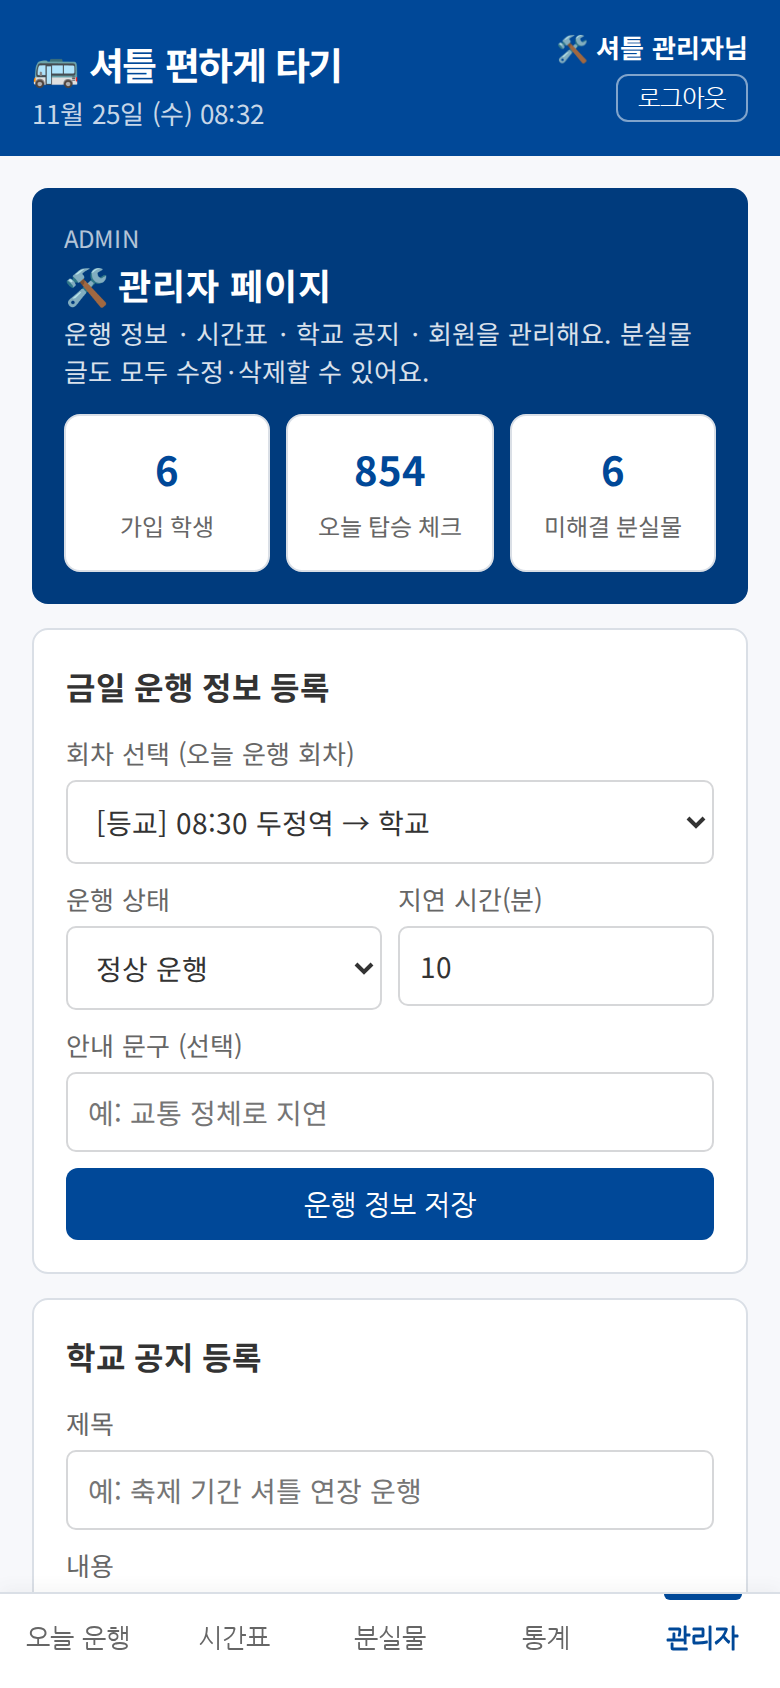
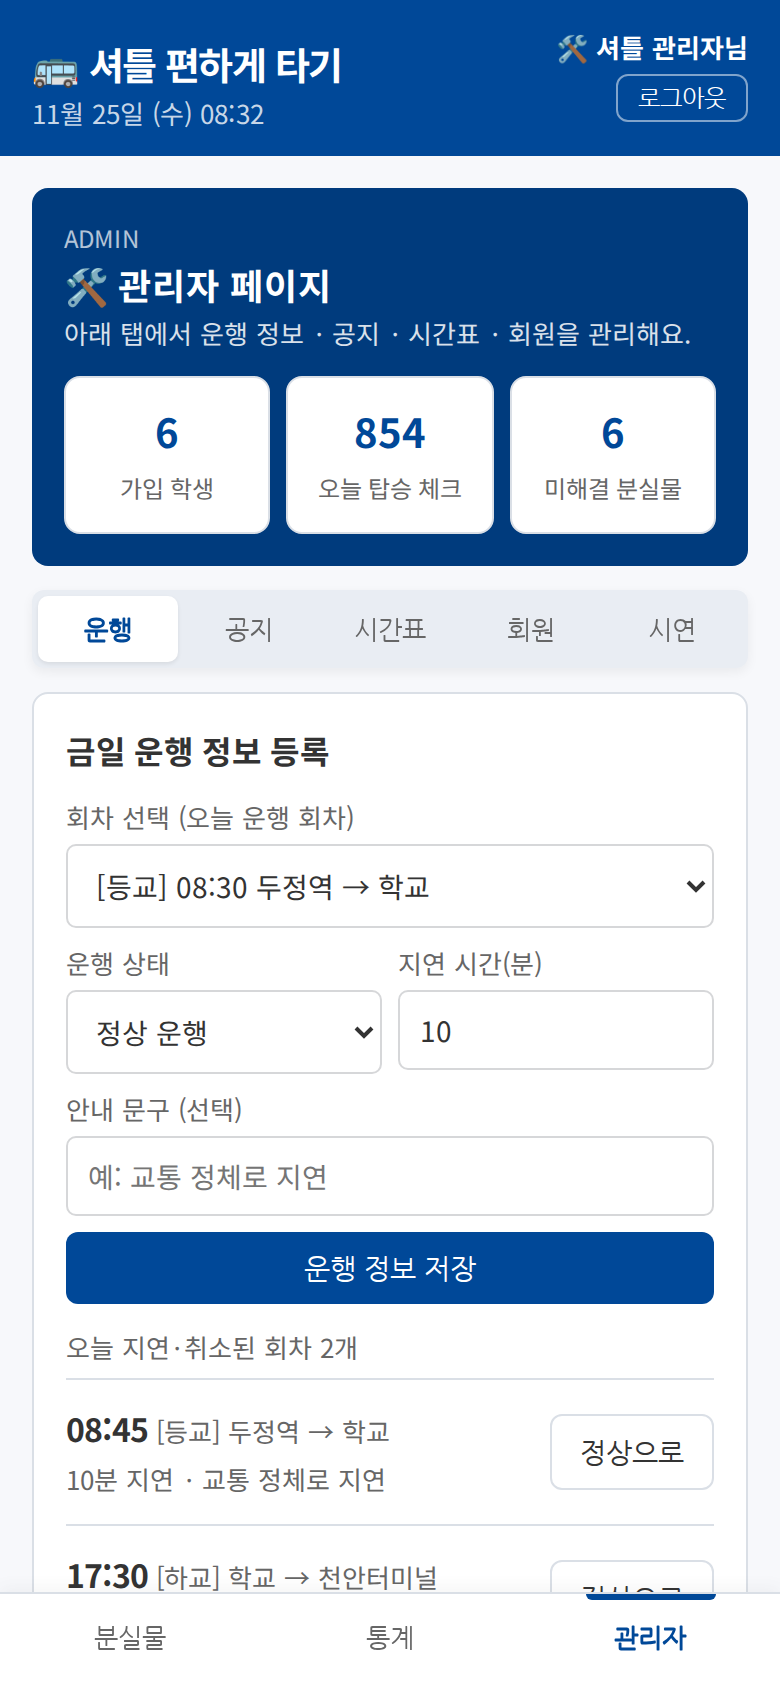
관리자 페이지를 탭으로 나누고 관리자 하단 메뉴에서 오늘 운행·시간표 제외
- 관리자 페이지: 운행/공지/시간표/회원/시연 탭
- 운행 탭에 오늘 지연·취소 회차 목록과 '정상으로' 버튼 추가
- 등록된 시간표 회차 목록은 접어 두고 등교/하교로 나눠 보기
- 관리자 로그인 시 관리자 탭으로 바로 이동

diff --git a/js/app.js b/js/app.js
@@ -354,6 +354,7 @@ function render() {
   renderHome(); renderWeek(); renderNotices();
   if (!$('lostList').contains(document.activeElement)) renderLost();   // 댓글 입력 중엔 다시 그리지 않음
   if (u.role === 'admin') { renderStats(); renderAdmin(); renderUsers(); }
+  fixTab();
 }
 
 function statusText(i) {
@@ -788,13 +789,21 @@ function renderAdmin() {
     return `<option value="${r.id}">[${r.dir}] ${r.time} ${r.route}${tag}</option>`;
   }).join('') : '<option value="">오늘 운행 회차 없음</option>';
   if (cur && runs.some(r => String(r.id) === cur)) $('stRun').value = cur;
+  const changed = runs.filter(r => day().status[r.id]);
+  $('stList').innerHTML = `<div class="muted" style="margin-bottom:6px">오늘 지연·취소된 회차 ${changed.length}개</div>` + changed.map(r => {
+    const st = day().status[r.id];
+    return `<div class="row between run"><div><b>${r.time}</b> <span class="muted">[${r.dir}] ${r.route}<br>${st.state === 'cancel' ? '운행 취소' : st.delay + '분 지연'}${st.note ? ' · ' + esc(st.note) : ''}</span></div>
+      <button class="btn ghost" data-streset="${r.id}">정상으로</button></div>`;
+  }).join('');
 
   $('routeList').innerHTML = [...new Set(S.schedule.map(r => r.route))].map(r => `<option value="${r}">`).join('');
   $('stopList').innerHTML = [...new Set(S.schedule.map(r => r.stop))].map(r => `<option value="${esc(r)}">`).join('');
   if (!$('addDays').children.length)
     $('addDays').innerHTML = DAYS.map((d, k) => `<div class="${k >= 5 ? 'wk' : ''}"><span>${d}</span><input type="number" min="0" max="9" value="${k < 5 ? 1 : 0}" data-day="${k}" /></div>`).join('');
 
-  $('schedList').innerHTML = sorted(S.schedule).map(r => `
+  $('schedCount').textContent = `(${S.schedule.length}개)`;
+  document.querySelectorAll('#schedSeg button').forEach(x => x.classList.toggle('on', x.dataset.sdir === schedDir));
+  $('schedList').innerHTML = sorted(S.schedule.filter(r => r.dir === schedDir)).map(r => `
     <div class="row between run">
       <div><b>${r.time}</b> <span class="muted">[${r.dir}] ${r.route}<br>${r.buses.map((b, k) => b ? DAYS[k] + b : '').filter(Boolean).join(' ') || '운행 없음'}${r.buses[5] || r.buses[6] ? ' <span class="badge b-wk">주말</span>' : ''}</span></div>
       <button class="btn ghost" data-del="${r.id}">삭제</button>
@@ -803,15 +812,36 @@ function renderAdmin() {
   $('demoDay').value = S.demoDay || '';
 }
 
+// ---------- 탭 이동 ----------
+// 관리자는 오늘 운행·시간표 탭 대신 분실물·통계·관리자 탭만 사용
+const STUDENT_TABS = ['home', 'week', 'lost'], ADMIN_TABS = ['lost', 'stats', 'admin'];
+let curTab = 'home', adminTab = 'run', schedDir = '등교';
+function goTab(t) {
+  curTab = t;
+  document.querySelectorAll('nav button').forEach(x => x.classList.toggle('on', x.dataset.tab === t));
+  ['home', 'week', 'lost', 'stats', 'admin'].forEach(k => $('tab-' + k).classList.toggle('hidden', k !== t));
+  window.scrollTo(0, 0);
+}
+function fixTab() {   // 로그인한 사람의 역할에 맞지 않는 탭이면 기본 탭으로
+  if (!me()) return;
+  const ok = isAdmin() ? ADMIN_TABS : STUDENT_TABS;
+  if (!ok.includes(curTab)) goTab(isAdmin() ? 'admin' : 'home');
+}
+function showAdminTab() {
+  document.querySelectorAll('#adminSeg button').forEach(x => x.classList.toggle('on', x.dataset.atab === adminTab));
+  document.querySelectorAll('[data-apane]').forEach(x => x.classList.toggle('hidden', x.dataset.apane !== adminTab));
+}
+
 // ---------- 이벤트 ----------
 document.addEventListener('click', e => {
   const b = e.target.closest('button'); if (!b) return;
   if (b.dataset.tab) {
     if ((b.dataset.tab === 'admin' || b.dataset.tab === 'stats') && !isAdmin()) return toast('관리자만 들어갈 수 있어요');
-    document.querySelectorAll('nav button').forEach(x => x.classList.toggle('on', x === b));
-    ['home', 'week', 'lost', 'stats', 'admin'].forEach(t => $('tab-' + t).classList.toggle('hidden', t !== b.dataset.tab));
-    window.scrollTo(0, 0);
+    goTab(b.dataset.tab);
   }
+  if (b.dataset.sdir) { schedDir = b.dataset.sdir; renderAdmin(); }
+  if (b.dataset.atab) { adminTab = b.dataset.atab; showAdminTab(); window.scrollTo(0, 0); }
+  if (b.dataset.streset && isAdmin()) { delete day().status[b.dataset.streset]; save(); toast('정상 운행으로 되돌렸어요'); render(); }
   if (b.dataset.dir) { dir = b.dataset.dir; route = '전체'; if (q.mode === 'hour') q.mode = 'now'; renderHome(); }
   if (b.dataset.route) { route = b.dataset.route; renderHome(); }
   if (b.dataset.weekdir) { weekDir = b.dataset.weekdir; renderWeek(); }
@@ -831,7 +861,7 @@ document.addEventListener('click', e => {
   if (b.dataset.gonotice) {
     const ex = activeNotices().some(n => (n.extra || []).length);
     if (ex) { dir = '하교'; route = '전체'; renderHome(); }   // 연장 운행 공지면 하교 목록으로
-    document.querySelector(ex ? '#runList' : 'nav [data-tab=week]')[ex ? 'scrollIntoView' : 'click']();
+    ex ? $('runList').scrollIntoView() : goTab('week');
   }
   if ((b.dataset.nfdel || b.dataset.ntcdel || b.dataset.del || b.dataset.role || b.dataset.udel) && !isAdmin()) return toast('관리자만 할 수 있어요');
   if (b.dataset.role) {
@@ -855,7 +885,7 @@ document.addEventListener('click', e => {
   }
   if (b.dataset.logout) {
     S.session = null; save();
-    document.querySelector('nav [data-tab=home]').click();
+    goTab('home');
     render(); toast('로그아웃했어요');
   }
   if (b.dataset.nfdel) { nfRuns.splice(Number(b.dataset.nfdel), 1); renderNotices(); }
@@ -1018,7 +1048,8 @@ function login(id) {
   S.session = id; save();
   dir = '등교'; route = '전체'; showPast = false;
   openCmts.clear(); for (const k in cmtDraft) delete cmtDraft[k];
-  document.querySelector('nav [data-tab=home]').click();
+  adminTab = 'run'; showAdminTab();
+  goTab(isAdmin() ? 'admin' : 'home');
   render(); toast(`${userName(id)}님, 환영해요!`);
 }
 $('liBtn').onclick = () => {
@@ -1046,5 +1077,6 @@ $('demoReset').onclick = adminOnly(() => {
 });
 
 if (/\.netlify\.app$/.test(location.hostname)) document.body.classList.add('nl-badge');
+showAdminTab();
 render();
 setInterval(render, 30000);

diff --git a/index.html b/index.html
@@ -127,10 +127,17 @@
     <div class="card admin-head">
       <div style="font-size:12px;opacity:.7">ADMIN</div>
       <div style="font-size:18px;font-weight:700;margin:2px 0">🛠 관리자 페이지</div>
-      <div style="font-size:13px;opacity:.85">운행 정보 · 시간표 · 학교 공지 · 회원을 관리해요. 분실물 글도 모두 수정·삭제할 수 있어요.</div>
+      <div style="font-size:13px;opacity:.85">아래 탭에서 운행 정보 · 공지 · 시간표 · 회원을 관리해요.</div>
       <div class="stat-row" id="adminSummary" style="margin:12px 0 0;color:var(--text)"></div>
     </div>
-    <div class="card">
+    <div class="seg atabs" id="adminSeg">
+      <button class="on" data-atab="run">운행</button>
+      <button data-atab="notice">공지</button>
+      <button data-atab="sched">시간표</button>
+      <button data-atab="users">회원</button>
+      <button data-atab="demo">시연</button>
+    </div>
+    <div class="card" data-apane="run">
       <h2>금일 운행 정보 등록</h2>
       <div class="grid">
         <div class="full"><label>회차 선택 (오늘 운행 회차)</label><select id="stRun"></select></div>
@@ -140,9 +147,10 @@
         <div class="full"><label>안내 문구 (선택)</label><input id="stNote" placeholder="예: 교통 정체로 지연" /></div>
         <div class="full"><button class="btn" style="width:100%" id="stSave">운행 정보 저장</button></div>
       </div>
+      <div id="stList" style="margin-top:12px"></div>
     </div>
 
-    <div class="card">
+    <div class="card" data-apane="notice">
       <h2>학교 공지 등록</h2>
       <div class="grid">
         <div class="full"><label>제목</label><input id="nfTitle" placeholder="예: 축제 기간 셔틀 연장 운행" /></div>
@@ -164,7 +172,7 @@
       <div id="noticeAdmin" style="margin-top:12px"></div>
     </div>
 
-    <div class="card">
+    <div class="card" data-apane="sched">
       <h2>셔틀 시간표 등록</h2>
       <div class="grid">
         <div><label>구분</label><select id="addDir"><option>등교</option><option>하교</option></select></div>
@@ -180,15 +188,19 @@
           <div class="days" id="addDays"></div></div>
         <div class="full"><button class="btn" style="width:100%" id="addSave">시간표에 추가</button></div>
       </div>
-      <div id="schedList" style="margin-top:12px"></div>
+      <details class="fold" style="margin-top:14px">
+        <summary>등록된 회차 보기 <span class="muted" id="schedCount"></span></summary>
+        <div class="seg" style="margin:10px 0 4px" id="schedSeg"><button class="on" data-sdir="등교">등교</button><button data-sdir="하교">하교</button></div>
+        <div id="schedList"></div>
+      </details>
     </div>
 
-    <div class="card">
+    <div class="card" data-apane="users">
       <h2>회원 관리</h2>
       <div id="userList"></div>
     </div>
 
-    <div class="card">
+    <div class="card" data-apane="demo">
       <h2>시연 도구</h2>
       <div class="grid">
         <div><label>시연용 요일</label>

diff --git a/css/style.css b/css/style.css
@@ -130,6 +130,9 @@ textarea { width: 100%; padding: 9px 10px; border: 1px solid var(--line); border
 body.locked nav, body.locked section[id^="tab-"] { display: none !important; }
 body:not(.locked) #auth { display: none; }
 body:not(.admin) nav [data-tab="admin"], body:not(.admin) nav [data-tab="stats"] { display: none; }
+body.admin nav [data-tab="home"], body.admin nav [data-tab="week"] { display: none; }
+.atabs { position: sticky; top: 0; z-index: 5; margin: 0 0 12px; box-shadow: 0 2px 6px rgba(0,0,0,.06); }
+.atabs button { font-size: 13px; padding: 9px 0; }
 .search input[type=search] { font-size: 15px; padding: 11px 12px; background: #f7f8fa; border-color: transparent; }
 .search .slabel { font-size: 12px; color: var(--sub); font-weight: 600; margin: 12px 0 6px; }
 .search .chips { margin-bottom: 8px; flex-wrap: wrap; overflow: visible; }
@@ -231,3 +234,7 @@ nav button.on::before { content: ""; position: absolute; top: 0; left: 25%; righ
 body.nl-badge nav { padding-bottom: calc(56px + env(safe-area-inset-bottom)); }
 body.nl-badge .app { padding-bottom: 150px; }
 body.nl-badge .toast { bottom: 140px; }
+.fold summary { cursor: pointer; font-weight: 700; color: var(--primary); padding: 10px 0; border-top: 1px solid var(--line); list-style: none; }
+.fold summary::-webkit-details-marker { display: none; }
+.fold summary::after { content: " ▾"; }
+.fold[open] summary::after { content: " ▴"; }

diff --git a/README.md b/README.md
@@ -22,7 +22,7 @@
 | 통계 (관리자) | 관리자 페이지 |
 |:---:|:---:|
 | <img src="docs/images/stats.png" width="240" alt="통계 화면"> | <img src="docs/images/admin.png" width="240" alt="관리자 화면"> |
-| 시간대별 이용자 수 | 운행 정보·공지·시간표 관리 |
+| 시간대별 이용자 수 | 운행·공지·시간표·회원·시연 탭 |
 
 ## 시연용 계정
 
@@ -46,8 +46,10 @@
 - **분실물**: 셔틀에서 잃어버리거나 주운 물건을 올리고 댓글을 달 수 있습니다.
 
 ### 관리자
+관리자는 하단 메뉴에서 분실물·통계·관리자 탭만 보며, 관리자 페이지는 운행·공지·시간표·회원·시연 탭으로 나뉘어 있습니다.
+
 - 시간표 회차 추가·삭제 (주말 운행 포함)
-- 오늘의 운행 상태 변경 (정상·지연·취소)
+- 오늘의 운행 상태 변경 (정상·지연·취소)과 지연·취소된 회차 한눈에 보기
 - 공지 작성과 연장 운행 회차 등록
 - 시간대별 이용자 수 통계
 - 분실물 글 수정·삭제
